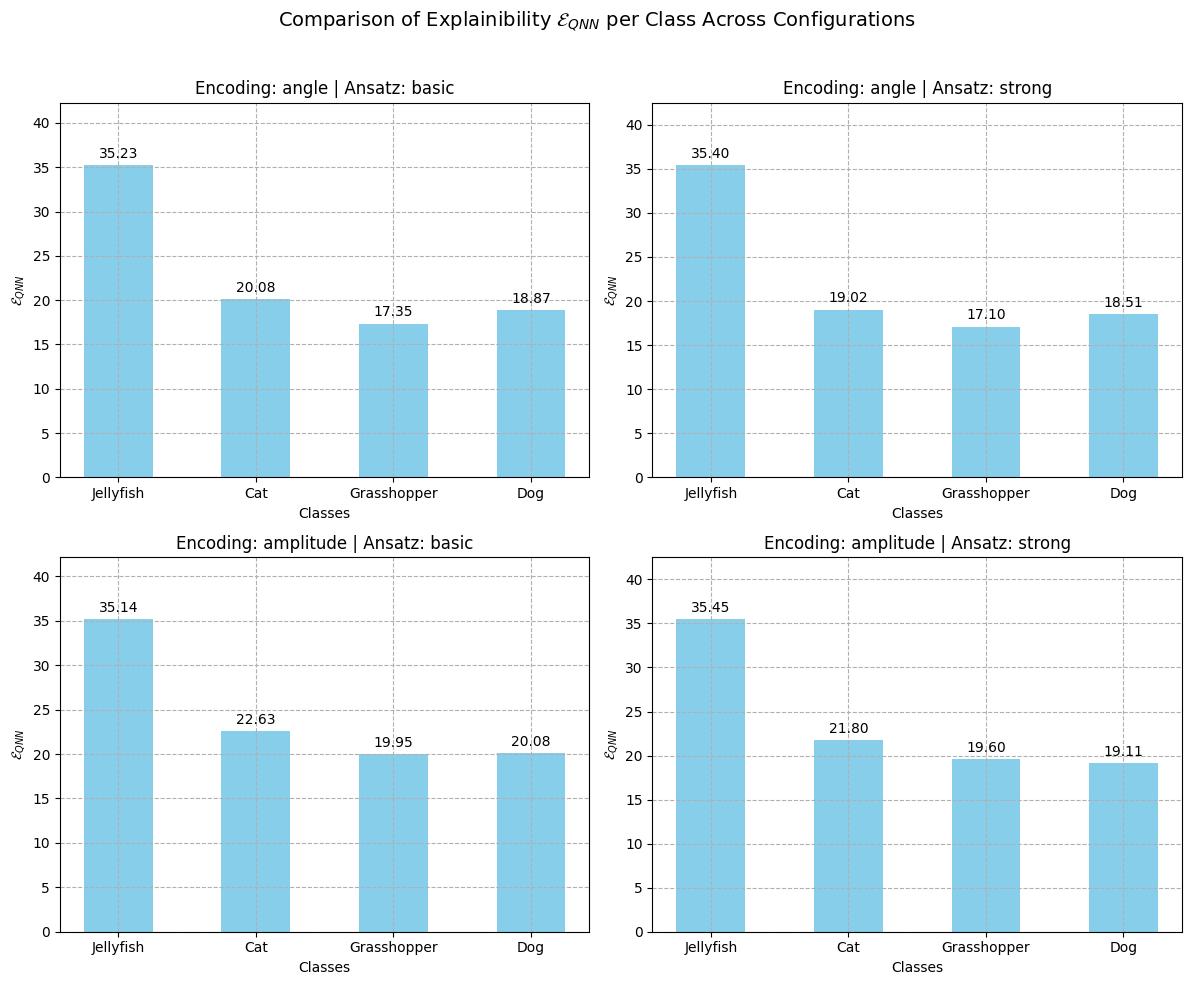
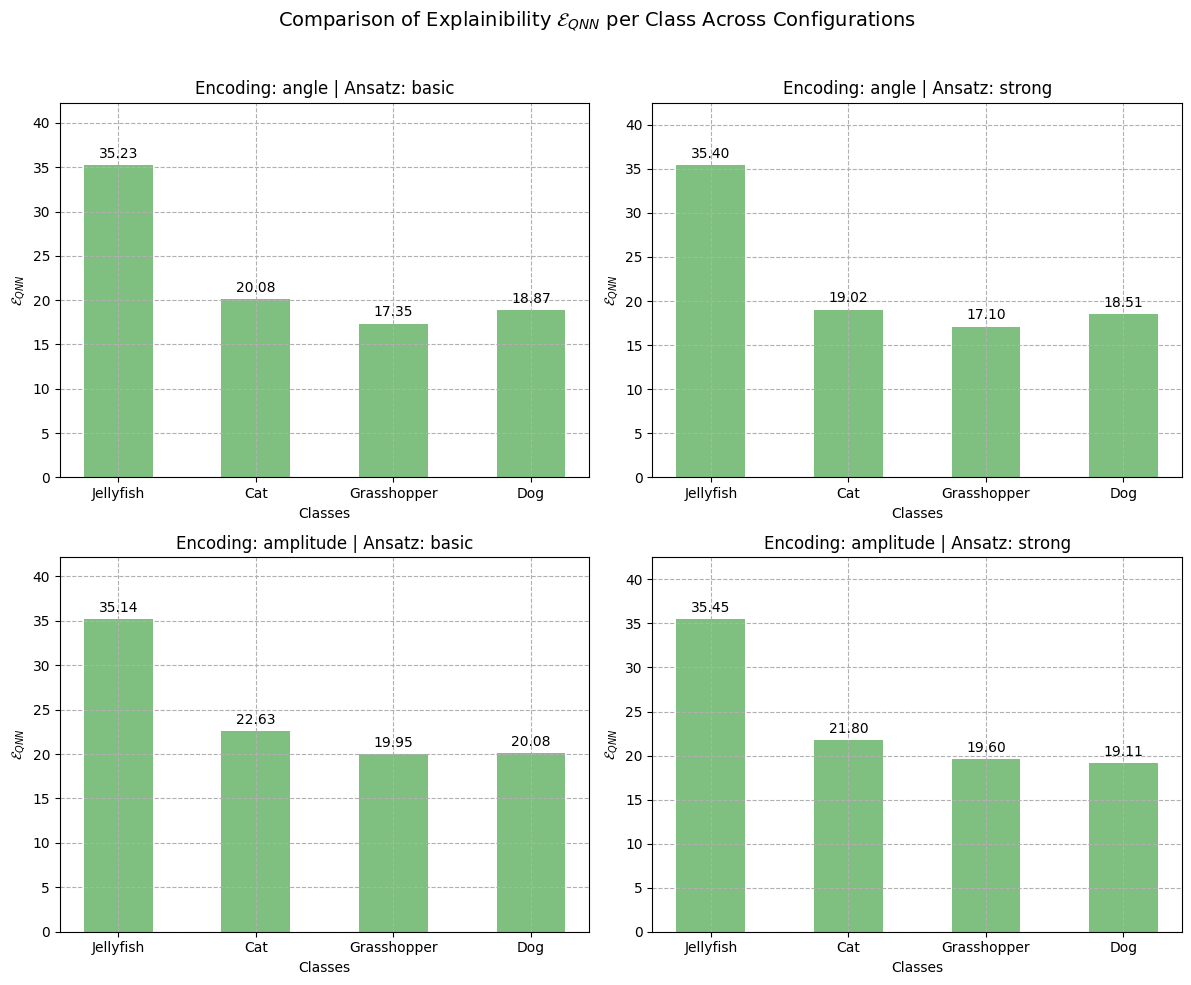
change exp color

diff --git a/Plots/generate_benchmark.py b/Plots/generate_benchmark.py
@@ -14,7 +14,7 @@ def plot_explainability(configurations, classes, explainability_list):
     for i, ax in enumerate(axes.flat):
         explainibilities = explainability_list[i]
 
-        bars = ax.bar(x, explainibilities, width, color='skyblue')
+        bars = ax.bar(x, explainibilities, width, alpha=0.5, color='green')
 
         ax.set_xlabel('Classes')
         ax.set_ylabel(r'$\mathcal{E}_{QNN}$')
